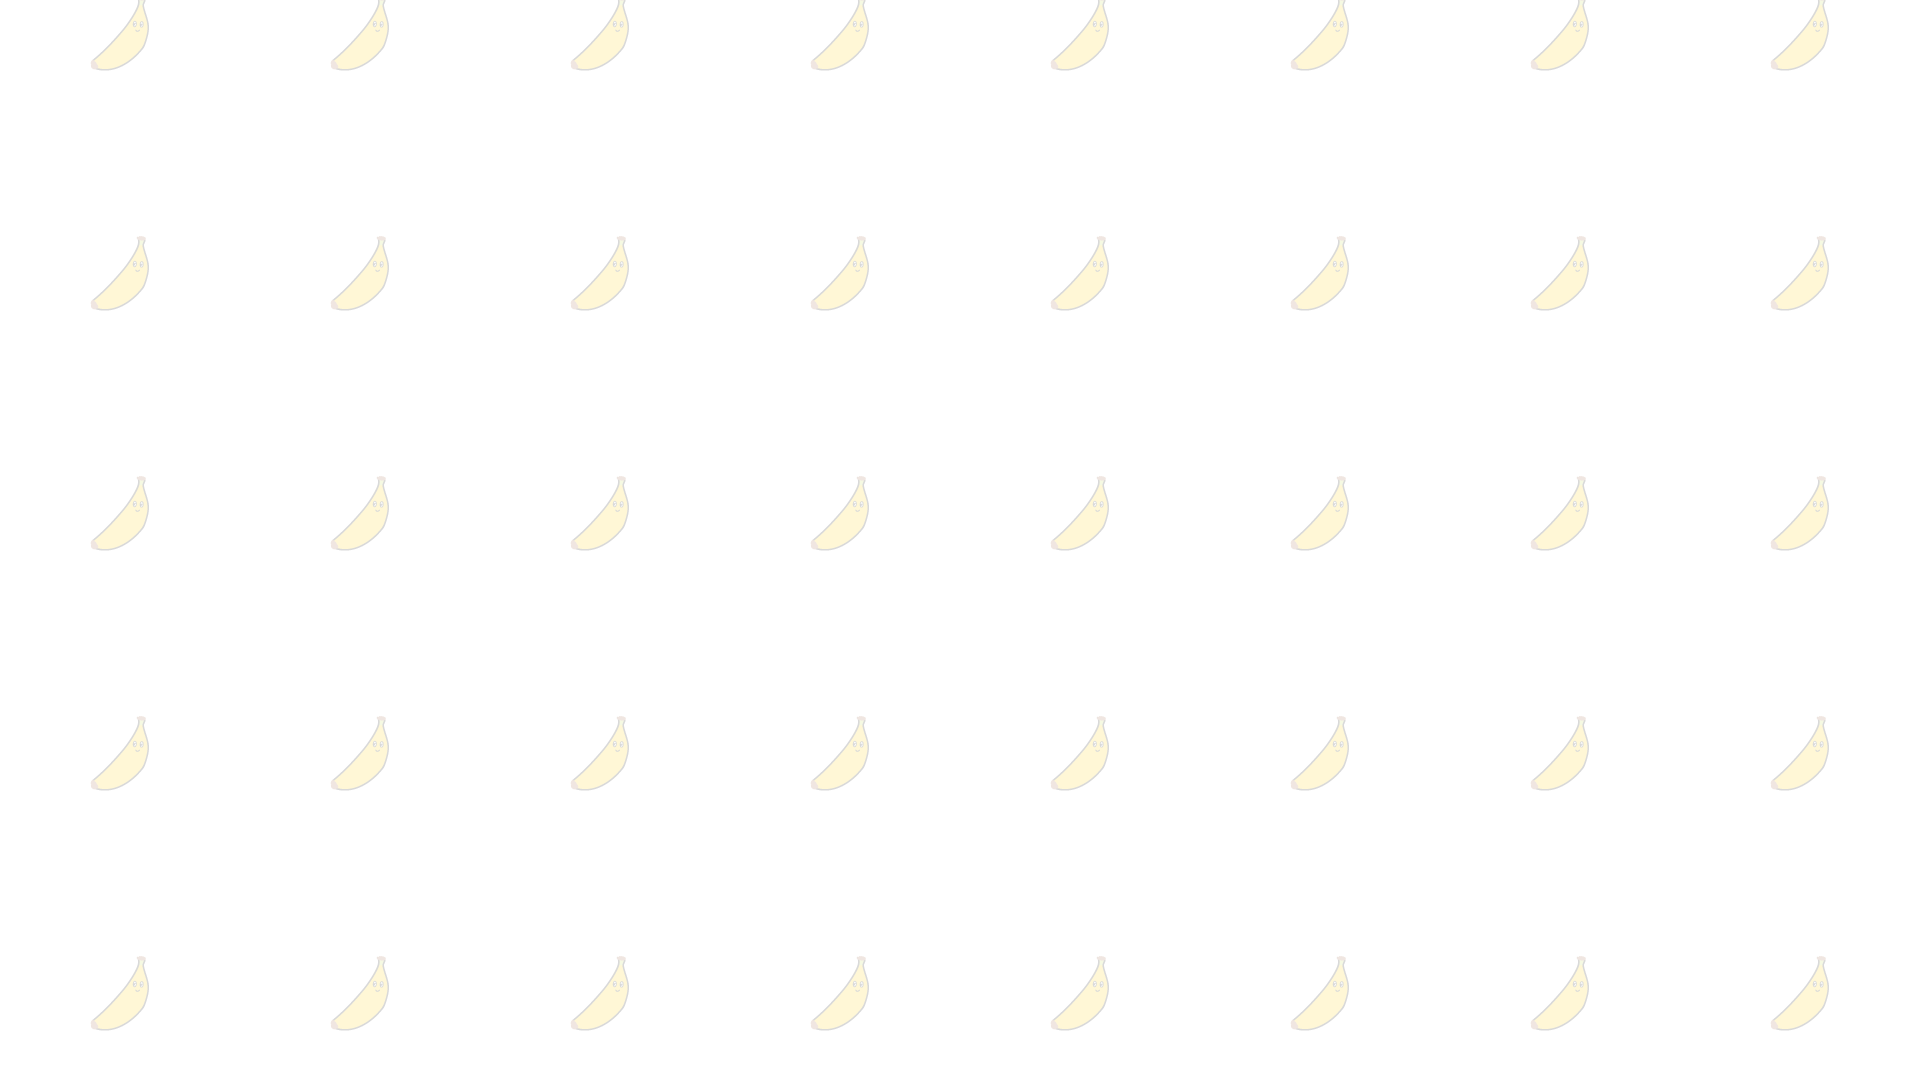
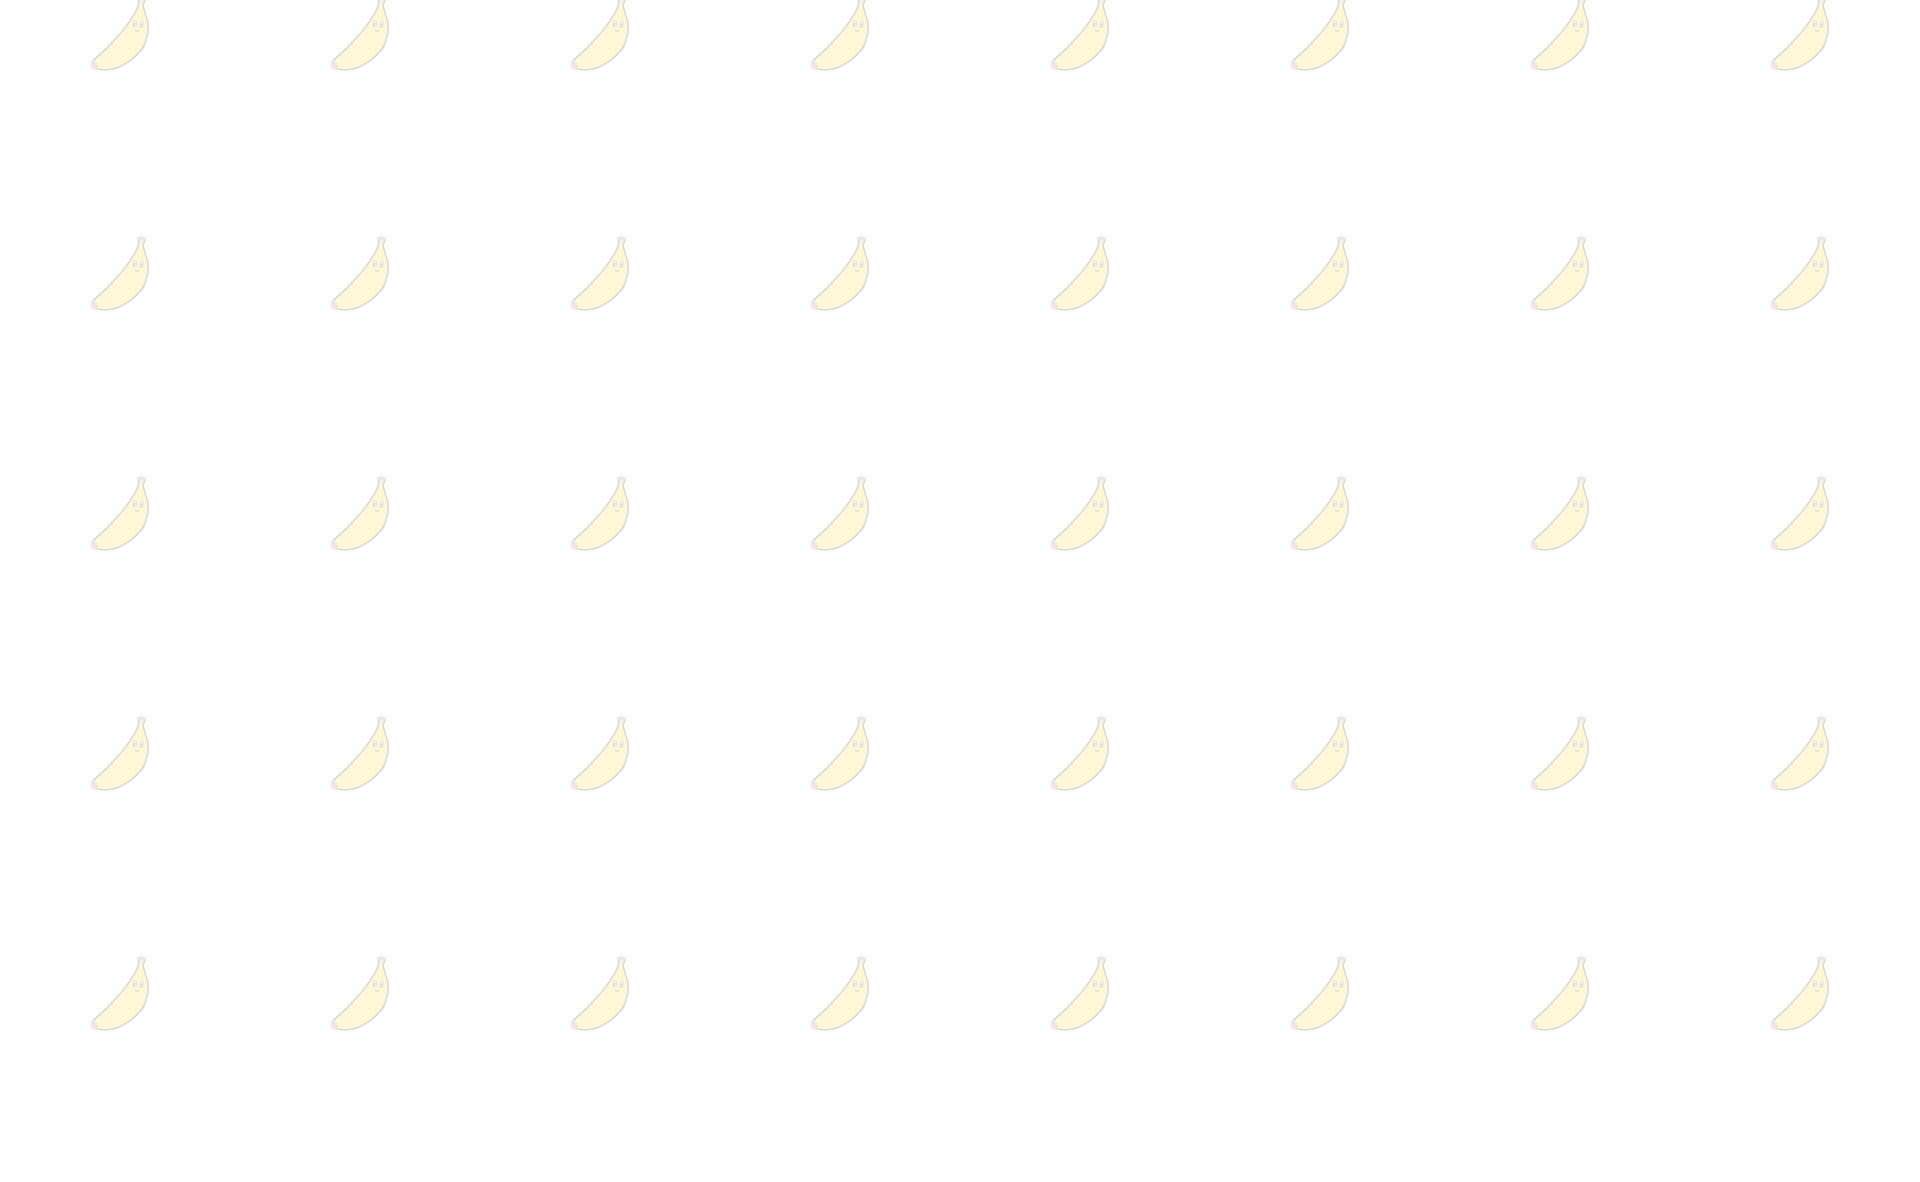
added new pics and comment in voice page

diff --git a/src/js/common/Variable.js b/src/js/common/Variable.js
@@ -31,32 +31,58 @@ export const IndexSubbomment = [
 export const Pictures = [
   `<iframe width="560" height="315" src="https://www.youtube.com/embed/yLFTjinxeHg?si=WEMLY88Fzu5uZcLS" title="YouTube video player" frameborder="0" allow="accelerometer; autoplay; clipboard-write; encrypted-media; gyroscope; picture-in-picture; web-share" referrerpolicy="strict-origin-when-cross-origin" allowfullscreen></iframe>`,
   `<iframe width="560" height="315" src="https://www.youtube.com/embed/ivwPWI8w6RA?si=2lXD5crW9yAi6pD0" title="YouTube video player" frameborder="0" allow="accelerometer; autoplay; clipboard-write; encrypted-media; gyroscope; picture-in-picture; web-share" referrerpolicy="strict-origin-when-cross-origin" allowfullscreen></iframe>`,
+  `../resource/2childrenMom.png`,
+  `../resource/VoicePic8.png`,
   `<iframe width="560" height="315" src="https://www.youtube.com/embed/5_HuhAKKtCg?si=EyMMkVjFpertQmZm" title="YouTube video player" frameborder="0" allow="accelerometer; autoplay; clipboard-write; encrypted-media; gyroscope; picture-in-picture; web-share" referrerpolicy="strict-origin-when-cross-origin" allowfullscreen></iframe>`,
   `<iframe width="560" height="315" src="https://www.youtube.com/embed/uq4SHpbhPLU?si=6fzfkoHgcC0klacG" title="YouTube video player" frameborder="0" allow="accelerometer; autoplay; clipboard-write; encrypted-media; gyroscope; picture-in-picture; web-share" referrerpolicy="strict-origin-when-cross-origin" allowfullscreen></iframe>`,
   `<iframe width="560" height="315" src="https://www.youtube.com/embed/ghzjtepxbhE?si=zsR7D-4O74vG1_R2" title="YouTube video player" frameborder="0" allow="accelerometer; autoplay; clipboard-write; encrypted-media; gyroscope; picture-in-picture; web-share" referrerpolicy="strict-origin-when-cross-origin" allowfullscreen></iframe>`,
+  `../resource/SaleseSupport.png`,
   `<iframe width="560" height="315" src="https://www.youtube.com/embed/XVv0xnIhaRA?si=DpbNbBhIjEArRZl0" title="YouTube video player" frameborder="0" allow="accelerometer; autoplay; clipboard-write; encrypted-media; gyroscope; picture-in-picture; web-share" referrerpolicy="strict-origin-when-cross-origin" allowfullscreen></iframe>`,
+  `../resource/Aroma.png`,
   `<iframe width="560" height="315" src="https://www.youtube.com/embed/dfyB0Pyxo14?si=k7MwICbhFP1UfR-x" title="YouTube video player" frameborder="0" allow="accelerometer; autoplay; clipboard-write; encrypted-media; gyroscope; picture-in-picture; web-share" referrerpolicy="strict-origin-when-cross-origin" allowfullscreen></iframe>`,
-  "../resource/VoicePic8.png"
+  `../resource/Aroma.png`
 ];
 export const voiceTitle = [
   "4人のママで電気工事現場監督（神奈川）",
   "アパレルデザイナー & スタイリスト（京都＆広島）",
+  `２児のママ兼OL（兵庫）`,
+  `お花屋さん（熊本）`,
   "ピラティススタジオ経営（福岡）",
   "ラーメン店４店舗経営ご夫婦（東京）",
   "EC販売代行（神奈川）",
+  "営業サポートOL（神戸）",
   "パティスリー経営（熊本）",
+  "アロマ商材販売（神奈川在住）",
   "リンパマッサージサロン経営（東京）",
-  "お花屋さん（熊本）"
+  "Coming soon..."
 ]
 export const customerVoice = [
+  "子育て真っ最中だが、次の人生に踏み出そうと英語を開始！一緒...",
+  "とにかく何か踏み出したい！ということ...",
+  `英語が好きだったことを思い出させてくれたあっきー...`,
+  `高校時代から嫌いなままだったが...`,
+  "英語が全く聞こえなかったのが１ヶ月で聞こえるようになった。...",
+  "",
+  "",
+  "学校で教えて欲しかった！...",
+  "",
+  "あっきーは天使みたいだな、ってよく思います。...",
+  "",
+  ""
+]
+export const customerVoiceFull = [
   "子育て真っ最中だが、次の人生に踏み出そうと英語を開始！一緒に渡豪もし、どんどん才能開花中！",
   "とにかく何か踏み出したい！ということで英語を始めたら、転職が起こるわ息子も英語が話せるようになるわミラクルいっぱいです！",
+  `英語が好きだったことを思い出させてくれたあっきー 中学の時好きだった英語が怖くなり勉強も嫌になっていました 軽い気持ちで再開したら『こんなはずじゃなかった』 『こんなこともわからないなんて悔しい』 そんな気持ちが出たり入ったりしながら続けていくうちに 不思議と面白く感じるようになった、 逃げていた英語に飛び込んでみたい！ってゆうきまで出てきました そしてそれは英語だけじゃなく他の生活にも影響を与えていて 自分の想像してないことが起こり初めてワクワクしています！`,
+  "高校時代から嫌いなままだったが、英語のでのチャットやヴォイスメッセージを自然に送れるようになった。",
   "英語が全く聞こえなかったのが１ヶ月で聞こえるようになった。毎日が海外で生活しているようだった。",
   "",
   "",
+  "学校で教えて欲しかった！って事がたくさん詰まってます 毎日英語に触れるから英語が当たり前になってくる そうしたらもっと話せるようになりたい欲がでてくる 英語をしているのに英語以外の世界も広がっていくという不思議な事も起こり始めている お楽しみだらけ！",
   "",
+  "あっきーは天使みたいだな、ってよく思います。性別も年齢もよくわかんないし笑世界中飛び回ってるしね笑 最初は英会話を通して、私が気づかずに抱えている 「英会話が上達しない罠」の存在をわかりやすく教えてくれました。あっきーがよく言う「呪い」ってやつですね。実は呪いは英語に限った話ではなくて。 人間関係やお金、健康などにも通じることなんです。英会話の練習をしているつもりが、いつの間にか人生を開花させるコーチングになっている。そんなセッションがよくあります。今はむしろ英会話がおまけみたいな感じ笑 私たちにかかっている「呪い」や そこにあるのに見えていない「鎖」をひらりとやってきて「ここにあるんじゃない？どうする？」ってそっと教えて去っていく、そんなAngelのようなあっきーといちどお話ししてみてくださいね♪",
   "",
-  "高校時代から嫌いなままだったが、英語のでのチャットやヴォイスメッセージを自然に送れるようになった。"
+  ""
 ]
 
 //About variables

diff --git a/src/css/voice.css b/src/css/voice.css
@@ -1,5 +1,7 @@
 #Voice {
   width: 100%;
+  background-image: url(../resource/banana-background.png);
+  background-size: contain;
 }
 #Voice .VoiceCardContainer {
   width: 100%;
@@ -7,11 +9,13 @@
   flex-wrap: wrap;
   row-gap: 65px;
   justify-content: space-evenly;
-  margin: 56px auto;
+  margin: auto;
+  padding: 56px 0;
 }
 #Voice .VoiceCardContainer .VoiceCard {
   width: 520px;
   height: auto;
+  background-color: white;
   box-shadow: 3px 3px 5px rgba(0, 0, 0, 0.39);
 }
 #Voice .VoiceCardContainer .VoiceCard .VoiceYoutube iframe {

diff --git a/src/sass/voice.scss b/src/sass/voice.scss
@@ -1,15 +1,20 @@
 #Voice{
   width: 100%;
+  background-image: url(../resource/banana-background.png);
+  background-size: contain;
+//  background-size: cover;
   .VoiceCardContainer{
     width: 100%;
     display: flex;
     flex-wrap: wrap;
     row-gap: 65px;
     justify-content: space-evenly;
-    margin: 56px auto;
+    margin:auto;
+    padding: 56px 0;
     .VoiceCard{
       width: 520px;
       height: auto;
+      background-color: white;
       box-shadow: 3px 3px 5px rgba(0, 0, 0, 0.39);
       .VoiceYoutube{
         iframe{
